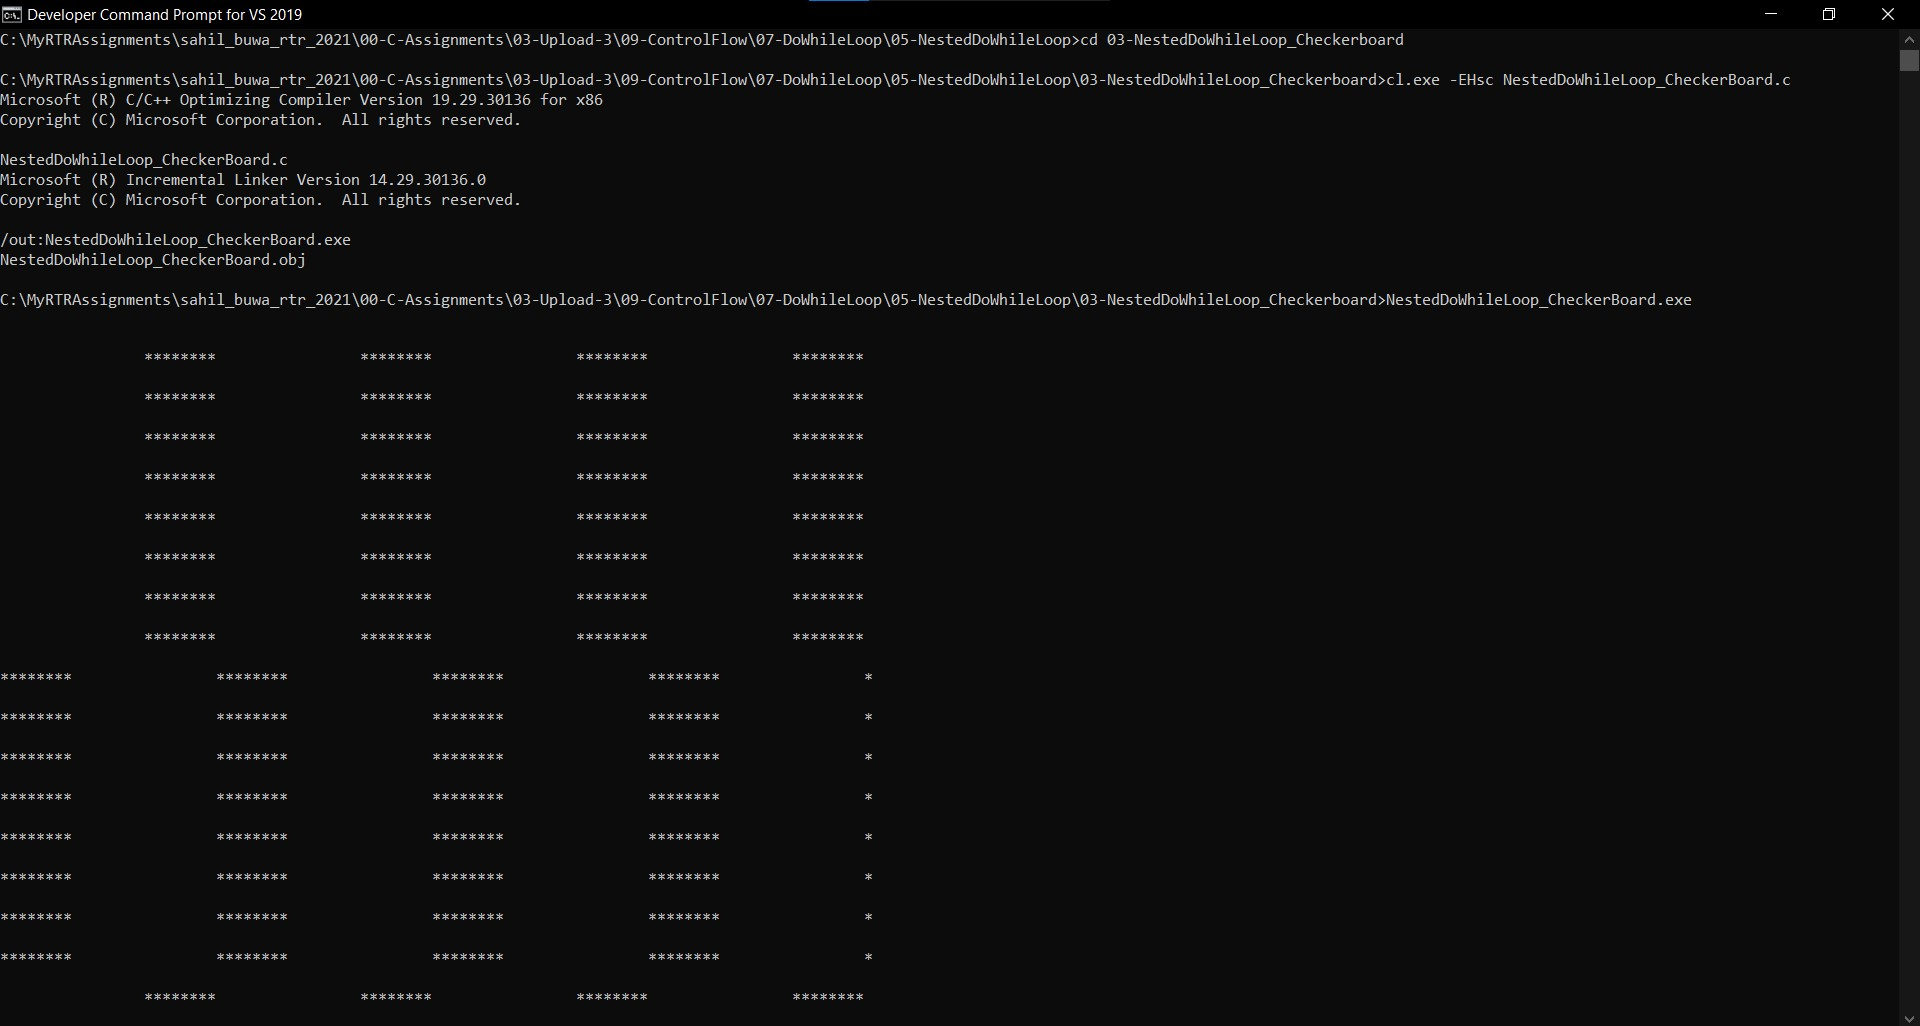
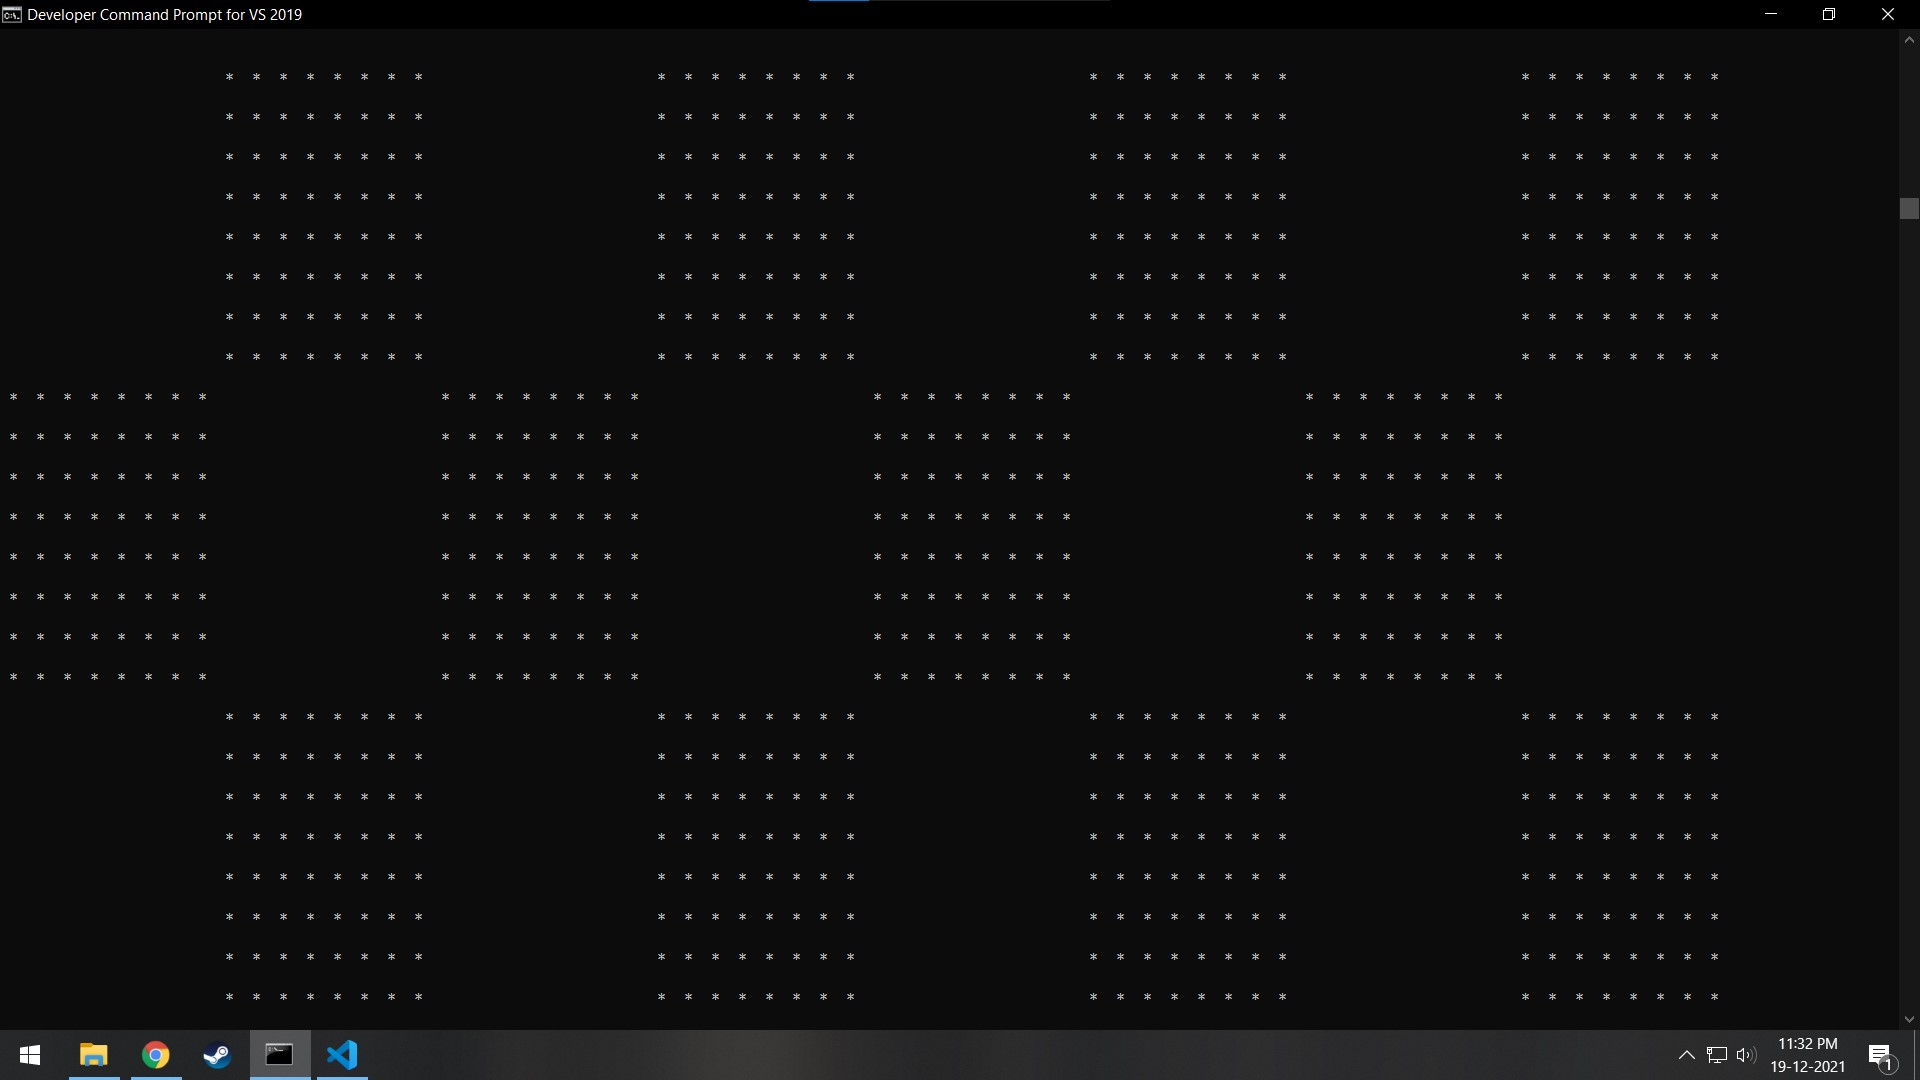
update

diff --git a/00-C-Assignments/03-Upload-3/09-ControlFlow/07-DoWhileLoop/05-NestedDoWhileLoop/03-NestedDoWhileLoop_Checkerboard/NestedDoWhileLoop_CheckerBoard.c b/00-C-Assignments/03-Upload-3/09-ControlFlow/07-DoWhileLoop/05-NestedDoWhileLoop/03-NestedDoWhileLoop_Checkerboard/NestedDoWhileLoop_CheckerBoard.c
@@ -14,13 +14,13 @@ int main(void)
         {
             sab_c = ((sab_i & 0x8)==0) ^ ((sab_j & 0x8)==0);
             if(sab_c==0)
-                printf("  ");
+                printf("   ");
             if(sab_c==1)
-                printf("*");
+                printf(" * ");
             sab_j++;
-        }while(sab_j <= 64);
-        printf("\n\n");
-        sab_i++;
+        }while(sab_j < 64);
+    printf("\n\n");
+    sab_i++;
     }while(sab_i <= 64);
     return 0;
 }

diff --git a/00-C-Assignments/03-Upload-3/09-ControlFlow/01-IfStatement/01-IfStatement_One/IfStatement.c b/00-C-Assignments/03-Upload-3/09-ControlFlow/01-IfStatement/01-IfStatement_One/IfStatement.c
@@ -18,7 +18,7 @@ int main (void)
     {
         printf("B is not equal to P !!!\n\n");
     }
-
+    
     printf("Both comparisions have been done!!!\n\n");
     return 0;
 }
